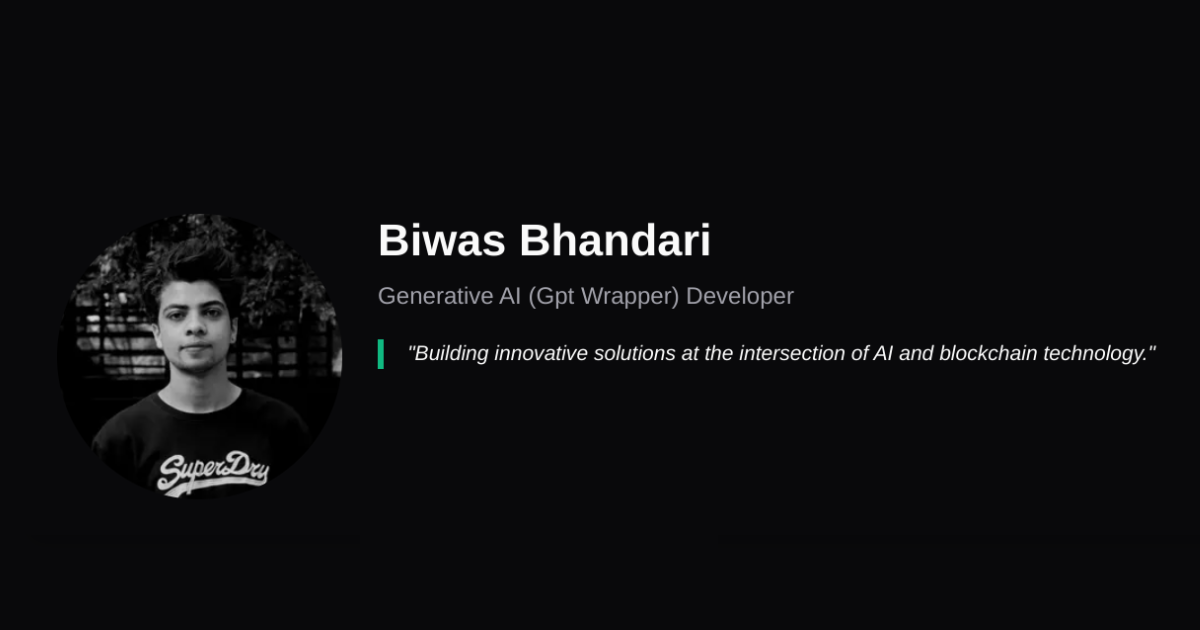
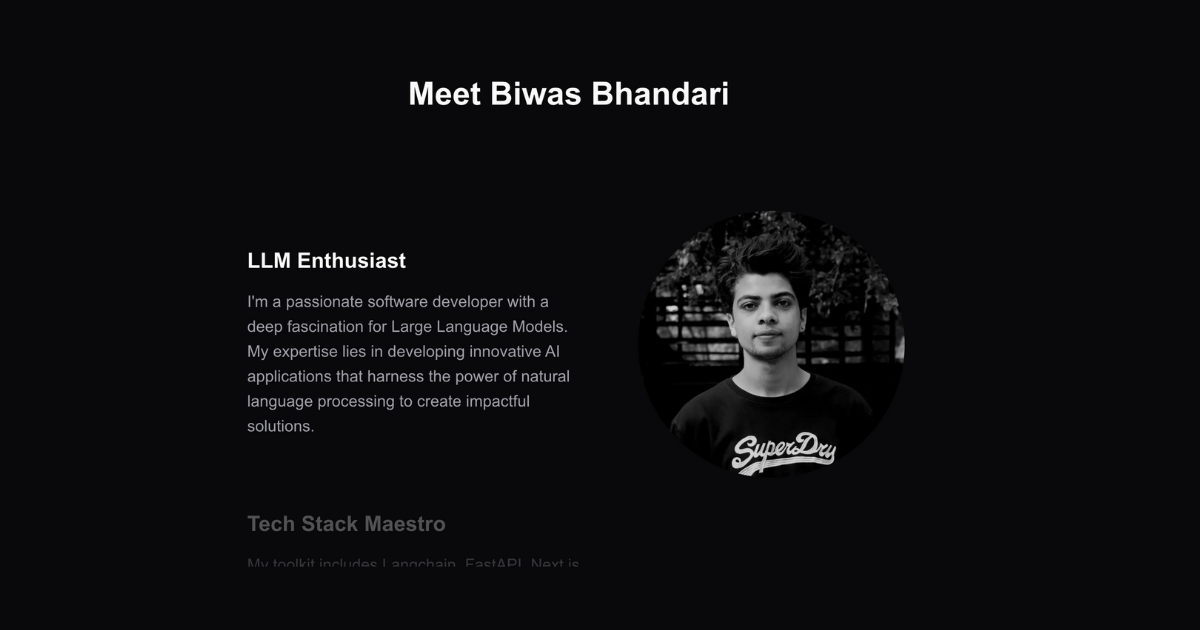
refactor v2

diff --git a/src/components/main/BiwasIntro.tsx b/src/components/main/BiwasIntro.tsx
@@ -8,80 +8,74 @@ const content = [
   {
     title: "LLM Enthusiast",
     description:
-      "Biwas Bhandari is a software developer with a passion for Large Language Models. He specializes in creating cutting-edge AI applications that push the boundaries of what's possible with natural language processing.",
+      "I'm a passionate software developer with a deep fascination for Large Language Models. My expertise lies in developing innovative AI applications that harness the power of natural language processing to create impactful solutions.",
     content: (
-      <div className="h-full w-full bg-[linear-gradient(to_bottom_right,var(--cyan-500),var(--emerald-500))] flex items-center justify-center ">
-        <Image
-          src="/biwas.jpg"
-          width={300}
-          height={300}
-          className="h-full w-full object-cover rounded-md"
-          alt="Biwas Bhandari"
-        />
-      </div>
+      <Image
+        src="/biwas.jpg"
+        width={300}
+        height={300}
+        className="h-full w-full object-cover rounded-full"
+        alt="Biwas Bhandari"
+        style={{ objectPosition: "center 25%" }}
+      />
     ),
   },
   {
     title: "Tech Stack Maestro",
     description:
-      "With expertise in Langchain, FastAPI, Next.js, and Supabase, Biwas crafts robust and scalable applications. His full-stack prowess enables him to bring AI-powered ideas to life from concept to deployment.",
+      "My toolkit includes Langchain, FastAPI, Next.js, and Supabase, enabling me to build end-to-end solutions. As a full-stack developer, I bridge the gap between AI concepts and production-ready applications.",
     content: (
-      <div className="h-full w-full bg-[linear-gradient(to_bottom_right,var(--pink-500),var(--indigo-500))] flex items-center justify-center  p-4">
-        <div className="grid grid-cols-2 gap-4">
-          <div className="flex items-center justify-center bg-white/10 rounded-md p-2">
-            Langchain
+      <div className="grid grid-cols-2 gap-4 h-full w-full p-4">
+        {["Langchain", "FastAPI", "Next.js", "Supabase"].map((tech) => (
+          <div
+            key={tech}
+            className="flex items-center justify-center bg-white/10 rounded-full p-4 text-center"
+          >
+            {tech}
           </div>
-          <div className="flex items-center justify-center bg-white/10 rounded-md p-2">
-            FastAPI
-          </div>
-          <div className="flex items-center justify-center bg-white/10 rounded-md p-2">
-            Next.js
-          </div>
-          <div className="flex items-center justify-center bg-white/10 rounded-md p-2">
-            Supabase
-          </div>
-        </div>
+        ))}
       </div>
     ),
   },
   {
     title: "Entertainment Aficionado",
     description:
-      "When not coding, Biwas immerses himself in the world of anime, binge-worthy series, and thought-provoking documentaries. His diverse interests fuel his creativity and problem-solving skills.",
+      "When I step away from the keyboard, I dive into the vibrant worlds of anime, engaging TV series, and enlightening documentaries. These diverse interests inspire my creative approach to problem-solving.",
     content: (
-      <div className="h-full w-full bg-[linear-gradient(to_bottom_right,var(--orange-500),var(--yellow-500))] flex items-center justify-center ">
-        <div className="grid grid-cols-3 gap-2">
-          <span className="text-4xl">🍿</span>
-          <span className="text-4xl">📺</span>
-          <span className="text-4xl">🎭</span>
-        </div>
+      <div className="grid grid-cols-3 gap-4 h-full w-full p-4">
+        {["🍿", "📺", "🎭"].map((emoji, index) => (
+          <div
+            key={index}
+            className="flex items-center justify-center text-6xl bg-white/10 rounded-full"
+          >
+            {emoji}
+          </div>
+        ))}
       </div>
     ),
   },
   {
     title: "Connect with Biwas",
     description:
-      "Interested in collaborating or just want to say hi? Check out Biwas's GitHub for his latest projects and contributions to the world of AI and software development.",
+      "Interested in collaborating or just want to say hi? Check out my GitHub (@biwasbhandari) for latest projects and contributions to the world of AI and software development.",
     content: (
-      <div className="h-full w-full bg-[linear-gradient(to_bottom_right,var(--cyan-500),var(--emerald-500))] flex items-center justify-center ">
-        <a
-          href="https://github.com/biwasbhandari"
-          target="_blank"
-          rel="noopener noreferrer"
-          className="flex items-center justify-center space-x-2 bg-white/10 rounded-md p-4 hover:bg-white/20 transition-colors"
-        >
-          <Github size={24} />
-          <span className="text-lg font-semibold">GitHub</span>
-        </a>
-      </div>
+      <a
+        href="https://github.com/biwasbhandari"
+        target="_blank"
+        rel="noopener noreferrer"
+        className="flex items-center justify-center space-x-2 bg-white/10 rounded-full p-6 hover:bg-white/20 transition-colors h-full w-full"
+      >
+        <Github size={32} />
+        <span className="text-2xl font-semibold">GitHub</span>
+      </a>
     ),
   },
 ];
 
 export default function BiwasBhandariIntro() {
   return (
-    <div className="p-10 min-h-screen flex items-center flex-col justify-center">
-      <h1 className="text-4xl font-bold text-center mb-8 ">
+    <div className="min-h-screen flex flex-col items-center justify-center p-8">
+      <h1 className="text-4xl font-bold text-center mb-8">
         Meet Biwas Bhandari
       </h1>
       <StickyScroll content={content} />

diff --git a/src/components/ui/sticky-scroll-reveal.tsx b/src/components/ui/sticky-scroll-reveal.tsx
@@ -1,22 +1,27 @@
 "use client";
+
 import React, { useEffect, useRef, useState } from "react";
 import { useMotionValueEvent, useScroll } from "framer-motion";
 import { motion } from "framer-motion";
 import { cn } from "@/lib/utils";
 
-export const StickyScroll = ({
+interface ContentItem {
+  title: string;
+  description: string;
+  content?: React.ReactNode;
+}
+
+interface StickyScrollProps {
+  content: ContentItem[];
+  contentClassName?: string;
+}
+
+export const StickyScroll: React.FC<StickyScrollProps> = ({
   content,
   contentClassName,
-}: {
-  content: {
-    title: string;
-    description: string;
-    content?: React.ReactNode | any;
-  }[];
-  contentClassName?: string;
 }) => {
-  const [activeCard, setActiveCard] = React.useState(0);
-  const ref = useRef<any>(null);
+  const [activeCard, setActiveCard] = useState(0);
+  const ref = useRef<HTMLDivElement>(null);
   const { scrollYProgress } = useScroll({
     container: ref,
     offset: ["start start", "end start"],
@@ -38,67 +43,48 @@ export const StickyScroll = ({
     setActiveCard(closestBreakpointIndex);
   });
 
-  const linearGradients = [
-    "linear-gradient(to bottom right, hsl(0 0% 0%), hsl(0 0% 0%))",
-    "linear-gradient(to bottom right, hsl(0 0% 0%), hsl(0 0% 0%))",
-    "linear-gradient(to bottom right, hsl(0 0% 0%), hsl(0 0% 0%))",
-  ];
-
-  const [backgroundGradient, setBackgroundGradient] = useState(
-    linearGradients[0]
-  );
-
-  useEffect(() => {
-    setBackgroundGradient(linearGradients[activeCard % linearGradients.length]);
-  }, [activeCard]);
-
   return (
     <div
-      className="h-[30rem] overflow-y-auto flex justify-center relative space-x-10 rounded-md p-10 bg-background"
       ref={ref}
+      className="h-[30rem] overflow-y-auto flex justify-center relative space-x-10 rounded-md p-10 bg-background"
     >
-      <div className="div relative flex items-start px-4">
+      <div className="relative flex items-start px-4">
         <div className="max-w-2xl">
           {content.map((item, index) => (
-            <div key={item.title + index} className="my-20">
-              <motion.h2
-                initial={{
-                  opacity: 0,
-                }}
-                animate={{
-                  opacity: activeCard === index ? 1 : 0.3,
-                }}
-                className="text-2xl font-bold text-foreground"
-              >
+            <motion.div
+              key={item.title + index}
+              className="my-20"
+              initial={{ opacity: 0 }}
+              animate={{ opacity: activeCard === index ? 1 : 0.3 }}
+              transition={{ duration: 0.5 }}
+            >
+              <h2 className="text-2xl font-bold text-foreground">
                 {item.title}
-              </motion.h2>
-              <motion.p
-                initial={{
-                  opacity: 0,
-                }}
-                animate={{
-                  opacity: activeCard === index ? 1 : 0.3,
-                }}
-                className="text-kg text-muted-foreground max-w-sm mt-10"
-              >
+              </h2>
+              <p className="text-lg text-muted-foreground max-w-sm mt-4">
                 {item.description}
-              </motion.p>
-            </div>
+              </p>
+            </motion.div>
           ))}
           <div className="h-40" />
         </div>
       </div>
-      <div
-        style={{ background: backgroundGradient }}
+      <motion.div
         className={cn(
-          "hidden lg:block h-60 w-80 rounded-md sticky top-10 overflow-hidden",
+          "hidden lg:block h-[300px] w-[300px] sticky top-10 overflow-hidden",
           contentClassName
         )}
+        animate={{
+          background: `linear-gradient(to bottom right, var(--${
+            ["cyan", "emerald", "orange", "yellow"][activeCard % 4]
+          }-500), var(--${
+            ["emerald", "cyan", "yellow", "orange"][activeCard % 4]
+          }-500))`,
+        }}
+        transition={{ duration: 0.5 }}
       >
-        {content[activeCard].content ?? null}
-      </div>
+        {content[activeCard].content}
+      </motion.div>
     </div>
   );
 };
-
-export default StickyScroll;

diff --git a/src/app/metadata.ts b/src/app/metadata.ts
@@ -4,15 +4,42 @@ export const metadata: Metadata = {
   title: "Biwas Bhandari - AI Application Developer",
   description:
     "I create AI applications. Explore insights, innovations, and more.",
+  icons: {
+    icon: [
+      { url: "/favicon/favicon-16x16.png", sizes: "16x16", type: "image/png" },
+      { url: "/favicon/favicon-32x32.png", sizes: "32x32", type: "image/png" },
+      { url: "/favicon/favicon.ico", sizes: "any" },
+    ],
+    apple: [
+      {
+        url: "/favicon/apple-touch-icon.png",
+        sizes: "180x180",
+        type: "image/png",
+      },
+    ],
+    other: [
+      {
+        url: "/favicon/android-chrome-192x192.png",
+        sizes: "192x192",
+        type: "image/png",
+      },
+      {
+        url: "/favicon/android-chrome-512x512.png",
+        sizes: "512x512",
+        type: "image/png",
+      },
+    ],
+  },
+  manifest: "/favicon/site.webmanifest",
   openGraph: {
     type: "website",
     title: "Biwas Bhandari - AI Application Developer",
     description:
       "I create AI applications. Explore insights, innovations, and more.",
-    url: "https://www.biwasbhandari.com",
+    url: "https://www.biwasbhandari.com.np",
     images: [
       {
-        url: "https://www.biwasbhandari.com/og-image.png",
+        url: "https://www.biwasbhandari.com.np/og-image.png",
         width: 1200,
         height: 630,
         alt: "Generative AI Application by Biwas Bhandari",
@@ -24,9 +51,9 @@ export const metadata: Metadata = {
     title: "Biwas Bhandari - AI Application Developer",
     description:
       "Explore cutting-edge Generative AI applications innovations by Biwas Bhandari.",
-    site: "@biwasbhandari",
-    creator: "@biwasbhandari",
-    images: ["https://www.biwasbhandari.com/og-image.png"],
+    site: "@bwias_",
+    creator: "@biwas_",
+    images: ["https://www.biwasbhandari.com.np/og-image.png"],
   },
   robots: "index, follow",
 };
